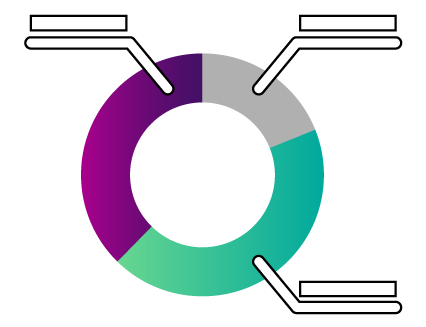
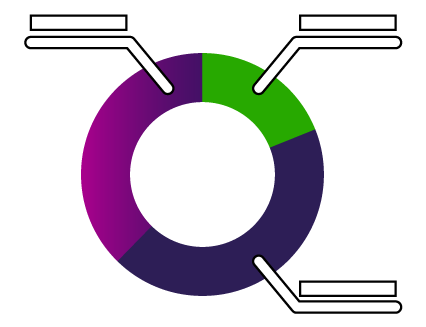
Oragnizando colores de algunos servicios

diff --git a/scss/estilos.css b/scss/estilos.css
@@ -117,11 +117,11 @@ MENU PRINCIPAL
   -webkit-box-flex: 1;
       -ms-flex: 1 1 100%;
           flex: 1 1 100%;
-  background-image: -webkit-gradient(linear, right top, left top, from(#27235f), to(#5c146f));
-  background-image: linear-gradient(to left, #27235f 0%, #5c146f 100%);
+  background-image: -webkit-gradient(linear, right top, left top, from(#3c1b54), to(#5c146f));
+  background-image: linear-gradient(to left, #3c1b54 0%, #5c146f 100%);
   margin-top: 1.3rem;
   border-radius: 5px;
-  border-bottom: 4px solid #ffb900; }
+  border-bottom: 4px solid #7f077d; }
 
 #menu-principal ul {
   padding: 0;
@@ -272,7 +272,7 @@ SECCION SERVICIOS
 FOOTER
 ------------------------------*/
 footer {
-  background-color: #353535;
+  background-color: #17113C;
   background-size: cover;
   padding: 2rem 0; }
 
@@ -436,6 +436,9 @@ MEDIA QUERY PARA 768px
 MEDIA QUERY PARA 992px
 ------------------------------*/
 @media (min-width: 992px) {
+  .texto-encabezado .display-4 {
+    margin-top: 8rem; }
+
   .edificio {
     margin-top: 4rem; }
 
@@ -454,6 +457,9 @@ MEDIA QUERY PARA 1200px
   .bienvenidos {
     background: url("../images/Home_page/otraopcion-grande-min.png") no-repeat center top;
     background-size: cover; }
+
+  .texto-encabezado .display-4 {
+    margin-top: 9.6rem; }
 
   .edificio img {
     width: 100%;

diff --git a/scss/marketing.css b/scss/marketing.css
@@ -104,11 +104,11 @@ MENU PRINCIPAL
   -webkit-box-flex: 1;
       -ms-flex: 1 1 100%;
           flex: 1 1 100%;
-  background-image: -webkit-gradient(linear, right top, left top, from(#642b73), to(#642b73));
-  background-image: linear-gradient(to left, #642b73 0%, #642b73 100%);
+  background-image: -webkit-gradient(linear, right top, left top, from(#3c1b54), to(#5c146f));
+  background-image: linear-gradient(to left, #3c1b54 0%, #5c146f 100%);
   margin-top: 1.3rem;
   border-radius: 5px;
-  border-bottom: 4px solid #ffb900; }
+  border-bottom: 4px solid #7f077d; }
 
 #menu-principal ul {
   padding: 0;
@@ -183,7 +183,7 @@ SECCION SERVICIOS
 FOOTER
 ------------------------------*/
 footer {
-  background-color: #353535;
+  background-color: #17113C;
   background-size: cover;
   padding: 2rem 0; }
 

diff --git a/scss/servicios.css b/scss/servicios.css
@@ -104,11 +104,11 @@ MENU PRINCIPAL
   -webkit-box-flex: 1;
       -ms-flex: 1 1 100%;
           flex: 1 1 100%;
-  background-image: -webkit-gradient(linear, right top, left top, from(#642b73), to(#642b73));
-  background-image: linear-gradient(to left, #642b73 0%, #642b73 100%);
+  background-image: -webkit-gradient(linear, right top, left top, from(#3c1b54), to(#5c146f));
+  background-image: linear-gradient(to left, #3c1b54 0%, #5c146f 100%);
   margin-top: 1.3rem;
   border-radius: 5px;
-  border-bottom: 4px solid #ffb900; }
+  border-bottom: 4px solid #7f077d; }
 
 #menu-principal ul {
   padding: 0;
@@ -183,7 +183,7 @@ SECCION SERVICIOS
 FOOTER
 ------------------------------*/
 footer {
-  background-color: #353535;
+  background-color: #17113C;
   background-size: cover;
   padding: 2rem 0; }
 

diff --git a/scss/tiendas.css b/scss/tiendas.css
@@ -104,11 +104,11 @@ MENU PRINCIPAL
   -webkit-box-flex: 1;
       -ms-flex: 1 1 100%;
           flex: 1 1 100%;
-  background-image: -webkit-gradient(linear, right top, left top, from(#642b73), to(#642b73));
-  background-image: linear-gradient(to left, #642b73 0%, #642b73 100%);
+  background-image: -webkit-gradient(linear, right top, left top, from(#3c1b54), to(#5c146f));
+  background-image: linear-gradient(to left, #3c1b54 0%, #5c146f 100%);
   margin-top: 1.3rem;
   border-radius: 5px;
-  border-bottom: 4px solid #ffb900; }
+  border-bottom: 4px solid #7f077d; }
 
 #menu-principal ul {
   padding: 0;
@@ -183,7 +183,7 @@ SECCION SERVICIOS
 FOOTER
 ------------------------------*/
 footer {
-  background-color: #353535;
+  background-color: #17113C;
   background-size: cover;
   padding: 2rem 0; }
 

diff --git a/scss/contacto.css b/scss/contacto.css
@@ -104,11 +104,11 @@ MENU PRINCIPAL
   -webkit-box-flex: 1;
       -ms-flex: 1 1 100%;
           flex: 1 1 100%;
-  background-image: -webkit-gradient(linear, right top, left top, from(#642b73), to(#642b73));
-  background-image: linear-gradient(to left, #642b73 0%, #642b73 100%);
+  background-image: -webkit-gradient(linear, right top, left top, from(#3c1b54), to(#5c146f));
+  background-image: linear-gradient(to left, #3c1b54 0%, #5c146f 100%);
   margin-top: 1.3rem;
   border-radius: 5px;
-  border-bottom: 4px solid #ffb900; }
+  border-bottom: 4px solid #7f077d; }
 
 #menu-principal ul {
   padding: 0;
@@ -213,7 +213,7 @@ BOTON ENVIAR ...
 FOOTER
 ------------------------------*/
 footer {
-  background-color: #353535;
+  background-color: #17113C;
   background-size: cover;
   padding: 2rem 0; }
 
